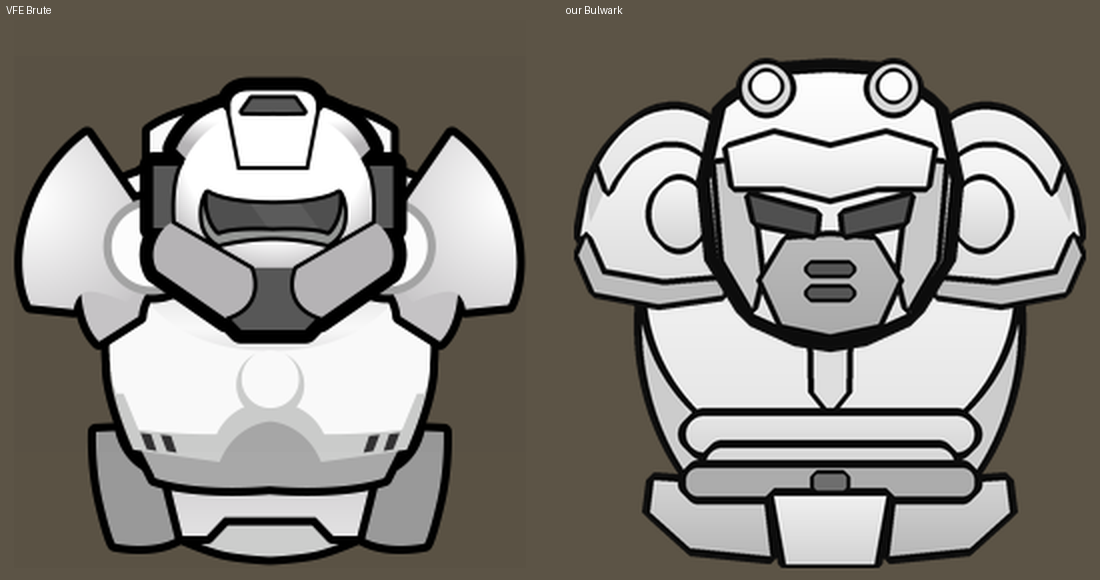
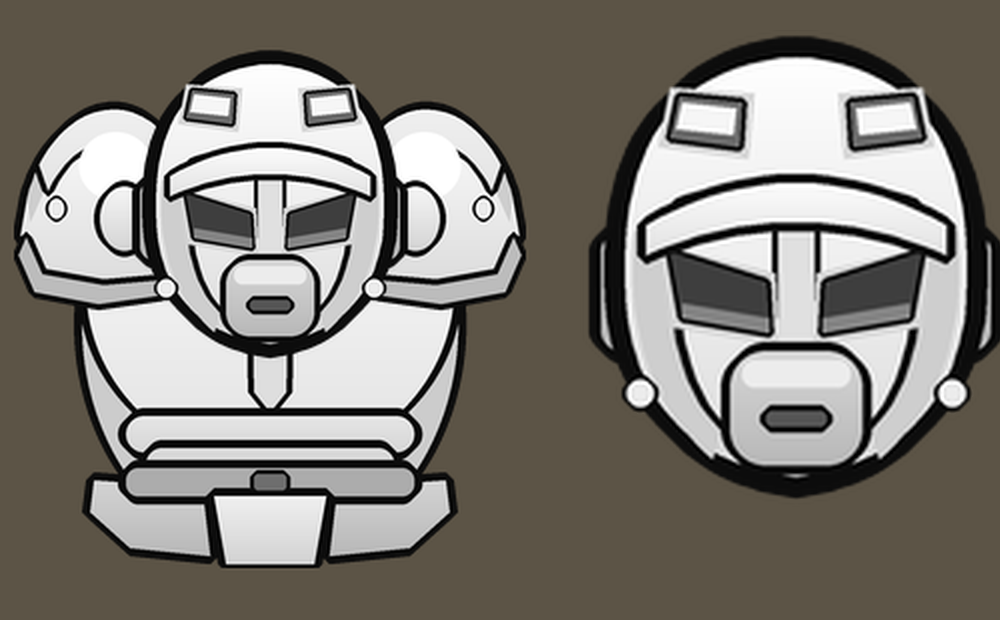
Bulwark v2: domed helmet with ear pieces, deep angled eyes, faceplate ridge, protruding jaw; domed pauldrons; form rules
Claude-Session: https://claude.ai/code/session_01GM4XsNt8FF8EEgy8oUJDKj

diff --git a/Source/Art/v2/bulwark.py b/Source/Art/v2/bulwark.py
@@ -36,25 +36,40 @@ S.plate(S.poly(arc(60,112,56,62,180,262)+[(56,58),(46,66),(26,82),(14,104),(10,1
 rim=S.poly(arc(60,112,56,62,196,320)+list(reversed(arc(60,120,46,54,196,320))))
 S.plate(rim,240,226,stroke=3,mirror=True)                                         # raised rim along the top
 S.plate(S.poly([(10,132),(26,146),(66,138),(104,122),(104,130),(66,148),(24,156),(8,142)]),188,stroke=3,mirror=True)  # lip under the flare
-S.plate(S.ell(46,84,82,118),246,212,stroke=3,mirror=True)                         # shield boss
-# ---------------- HELMET
+S.plate(S.ell(30,62,78,96),255,stroke=0,mirror=True)                              # lit cap of the dome
+S.plate(S.ell(52,86,84,118),246,212,stroke=3,mirror=True)                         # shield boss
+for bx,by in ((24,112),(92,100)): S.plate(S.ell(bx-5,by-5,bx+5,by+5),236,stroke=1.5,mirror=True)   # bolt bumps
+# ---------------- HELMET: domed, deep angled eyes under a heavy brow, faceplate ridge, protruding jaw
 H=Layer()
-H.plate(H.poly(sym([(128,66),(98,68),(76,84),(68,120),(72,160),(88,186),(110,196),(128,199)])),255,222,stroke=7)  # shell
-H.plate(H.poly([(71,112),(86,110),(93,168),(89,184),(75,160)]),200,stroke=3,mirror=True)                   # cheek planes
-H.plate(H.poly(sym([(128,164),(108,166),(104,188),(128,197)])),200,184,stroke=2)                            # simple chin plate, clear of the eyes
-H.mark(H.rrect(118,176,138,181,2))                                                                         # one slot
 def bez(p0,p1,p2,n=24):
     return [((1-t)**2*p0[0]+2*(1-t)*t*p1[0]+t*t*p2[0],(1-t)**2*p0[1]+2*(1-t)*t*p1[1]+t*t*p2[1]) for t in np.linspace(0,1,n)]
-brow=bez((74,118),(128,86),(182,118))+bez((178,132),(128,104),(78,132))
-H.plate(H.poly(brow),250,224,stroke=3)                                                                     # brow: one smooth arch across the face
-def lamp(sx):                                                                                              # lamp windows set into the shell
+def bump(x,y,r=4.5): H.plate(H.ell(x-r,y-r,x+r,y+r),236,stroke=1.5)
+# ear cylinders behind the shell
+H.plate(H.rrect(63,120,80,160,7),198,176,stroke=4,mirror=True)
+dome=bez((72,150),(64,66),(128,62))+bez((128,62),(192,66),(184,150))+bez((184,150),(176,196),(128,202))+bez((128,202),(80,196),(72,150))
+H.plate(H.poly(dome),255,214,stroke=7)                                                                    # domed shell
+H.plate(H.poly(bez((74,120),(70,170),(100,196))+[(104,184),(86,150),(86,118)]),206,stroke=0,mirror=True)  # shaded cheek side
+face=bez((88,112),(128,98),(168,112))+[(166,150)]+bez((166,150),(160,192),(128,196))+bez((128,196),(96,192),(90,150))
+H.plate(H.poly(face),246,222,stroke=3)                                                                    # faceplate
+H.plate(H.poly([(122,104),(134,104),(134,186),(128,192),(122,186)]),224,stroke=2)                          # centre ridge
+# heavy brow, one arch, overhanging the eyes
+# deep-set eye lenses angled down toward the centre (recess rules: thin line, lit lower wall, bevel rim)
+H.plate(H.poly([(82,124),(121,134),(122,158),(86,152)]),212,stroke=0,mirror=True)
+H.plate(H.poly([(86,127),(118,137),(119,154),(90,149)]),62,stroke=1.5,mirror=True)
+H.plate(H.poly([(90,144),(119,149),(119,154),(90,149)]),132,stroke=0,mirror=True)
+brow=bez((78,118),(128,90),(178,118))+bez((178,128),(128,106),(78,128))
+H.plate(H.poly(brow),252,226,stroke=3)
+# protruding jaw: a rounded block standing out from the faceplate, one slot
+H.plate(H.rrect(106,160,150,198,12),214,184,stroke=3)
+H.plate(H.rrect(110,163,146,172,4),236,stroke=0)                                                          # lit top face of the jaw
+H.mark(H.rrect(118,180,138,185,2))
+# lamp windows set into the crown
+def lamp(sx):
     q=lambda pts:[(128+sx*x,y) for x,y in pts]
-    H.plate(H.poly(q([(14,78),(42,76),(46,96),(16,100)])),214,stroke=0)                                    # bevel rim
-    H.plate(H.poly(q([(18,81),(39,79),(42,93),(19,96)])),104,stroke=1.5)                                   # recess
-    H.plate(H.poly(q([(20,83),(38,81),(40,90),(21,92)])),246,stroke=0)                                     # bright lens
+    H.plate(H.poly(q([(14,74),(42,72),(46,92),(16,96)])),214,stroke=0)
+    H.plate(H.poly(q([(18,77),(39,75),(42,89),(19,92)])),104,stroke=1.5)
+    H.plate(H.poly(q([(20,79),(38,77),(40,86),(21,88)])),246,stroke=0)
 for sx in (-1,1): lamp(sx)
-H.plate(H.poly([(82,132),(124,124),(124,146),(86,152)]),212,stroke=0,mirror=True)                          # bevel rim around the socket
-H.plate(H.poly([(86,135),(120,128),(120,142),(89,148)]),68,stroke=1.5,mirror=True)                         # eye recess (thin line)
-H.plate(H.poly([(89,144),(120,138),(120,142),(89,148)]),128,stroke=0,mirror=True)                          # lit inner bottom wall = depth
+for sx in (-1,1): bump(128+sx*52,174)                                                   # a few bolt bumps
 body,sh,hm=B.image(),S.image(),H.image()
 for n,im in (('body',body),('shoulders',sh),('helmet',hm)): im.save(f'{SP}/bw2/Bulwark_{n}_south.png')

diff --git a/docs/STYLE_GUIDE.md b/docs/STYLE_GUIDE.md
@@ -64,10 +64,17 @@ Median tone of a VFE body is about 205 and of a helmet about 200: the art is **m
 comes from hard steps between flat planes (faceting) plus the one gentle vertical gradient - not from
 soft airbrushed shading, rim lights, highlights or cast shadows.
 
+## Form
+
+- Build from big rounded masses: a domed helmet, domed pauldrons, a barrel chest. Avoid flat boxes.
+- Rounded parts get a lit cap (a brighter, unstroked patch toward the top-left) and a shaded underside or side.
+- A face reads through a heavy brow over deep-set eye recesses, a centre ridge on the faceplate and a jaw
+  piece that stands out (lit top face, darker front).
+
 ## Detail
 
 - Large shapes only. Per layer, at most a handful of small marks: a pair of vent slots, a round
-  socket, one seam. No rivets, bolts, grilles, texture, scratches, text or decals.
+  socket, one seam, two to four round bolt bumps. No rivets, bolts, grilles, texture, scratches, text or decals.
 - The visor/eyes are dark-grey shapes (70 - 100), not glowing colour, drawn as recesses: a thin line
   (1.5 - 2 px, not the 4 px plate outline), a lighter strip (~130) along the inside bottom edge where the far
   wall catches light, and a soft bevel rim (~210) around the opening. That is what gives them depth.
@@ -81,6 +88,8 @@ soft airbrushed shading, rim lights, highlights or cast shadows.
 
 - Before a design is kept, put it next to every VFE warcasket (helmet and body) and the vanilla armours
   and reject anything that matches one. Never give an image generator VFE or another game's art.
+- Inspiration from Fallout-style power armour is limited to principles (rounded masses, deep-set eyes, faceplate
+  ridge, protruding jaw). Never its round grille snout with hoses, its eye shape or its decals.
 - Known no-gos: the T-shaped visor (VFE Marine, Fallout), twin vertical exhaust stacks on the back
   (VFE Cataphract/Siegebreaker), the round-faced helmet with a hex jaw (VFE Brute).
 
